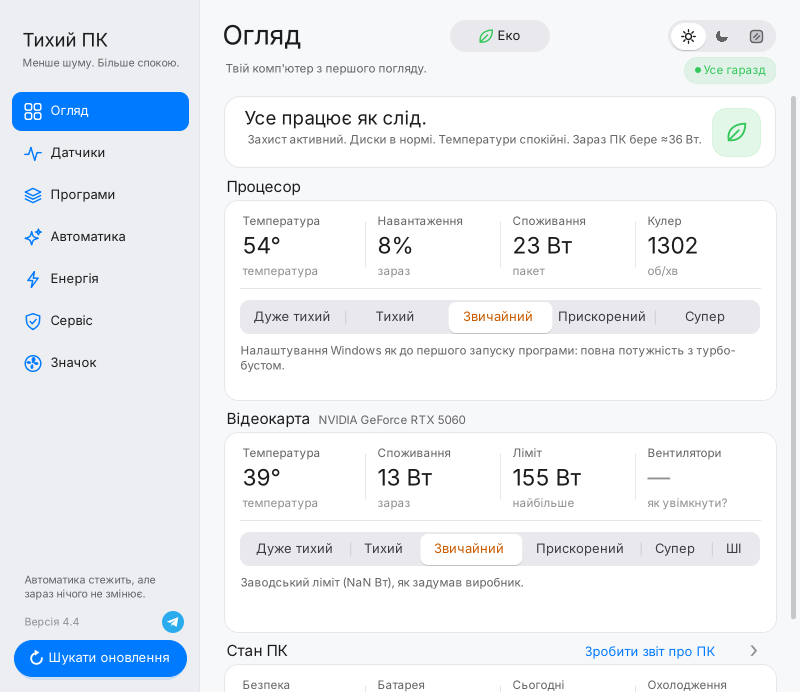
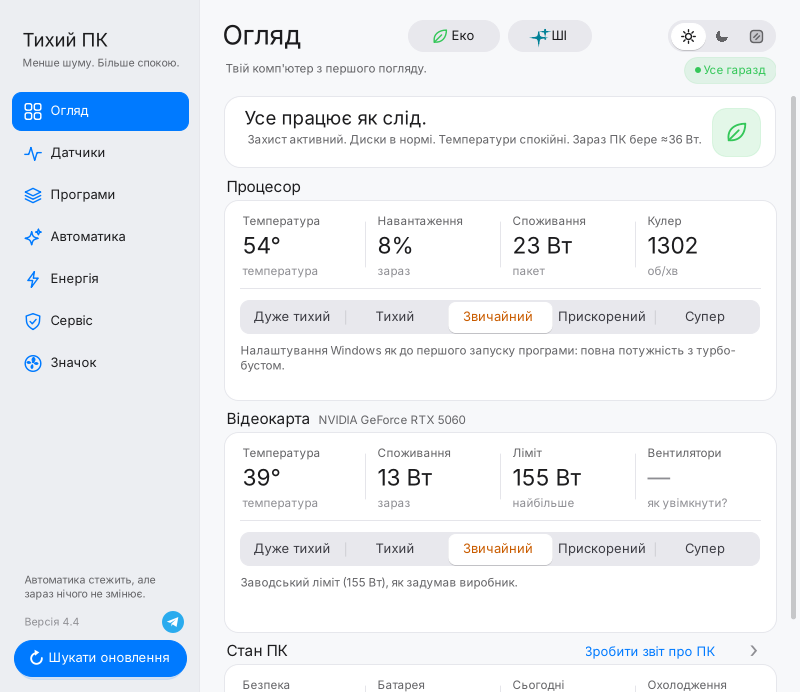
4.4: кнопка «ШІ» поруч з «Еко»
Claude-Session: https://claude.ai/code/session_01SfcRwrkwGvgeaTNGhf47q9

Changed region(s): [[0.4375, 0.789, 0.9375, 0.8497], [0.5312, 0.0303, 0.7188, 0.0607], [0.3125, 0.789, 0.4062, 0.8194]]

diff --git a/src/Shell.cs b/src/Shell.cs
@@ -51,6 +51,15 @@ namespace TyhyiPK
                         }
                         g.DrawLines(pen, new[] { P(x, y, s, 0.33f, 0.5f), P(x, y, s, 0.46f, 0.63f), P(x, y, s, 0.68f, 0.38f) });
                         break;
+                    case "ai":
+                        // Іскри ШІ: велика чотирипроменева зірка і дві маленькі поруч.
+                        using (var b = new SolidBrush(c))
+                        {
+                            Sparkle(g, b, x + s * 0.42f, y + s * 0.58f, s * 0.38f);
+                            Sparkle(g, b, x + s * 0.82f, y + s * 0.2f, s * 0.17f);
+                            g.FillEllipse(b, x + s * 0.8f, y + s * 0.62f, s * 0.12f, s * 0.12f);
+                        }
+                        break;
                     case "leaf":
                         using (var p = new GraphicsPath())
                         {
@@ -183,6 +192,20 @@ namespace TyhyiPK
                         g.DrawLine(pen, P(x, y, s, 0.5f, 0.74f), P(x, y, s, 0.5f, 0.75f));
                         break;
                 }
+            }
+        }
+
+        // Чотирипроменева «іскра» з увігнутими боками.
+        static void Sparkle(Graphics g, Brush b, float cx, float cy, float r)
+        {
+            float k = r * 0.12f;
+            using (var p = new GraphicsPath())
+            {
+                p.AddBezier(cx, cy - r, cx + k, cy - k, cx + k, cy - k, cx + r, cy);
+                p.AddBezier(cx + r, cy, cx + k, cy + k, cx + k, cy + k, cx, cy + r);
+                p.AddBezier(cx, cy + r, cx - k, cy + k, cx - k, cy + k, cx - r, cy);
+                p.AddBezier(cx - r, cy, cx - k, cy - k, cx - k, cy - k, cx, cy - r);
+                g.FillPath(b, p);
             }
         }
 
@@ -562,12 +585,18 @@ namespace TyhyiPK
         }
     }
 
-    // Кнопка «Еко» над сторінкою: листочок і напис; увімкнена — зелена.
-    class EcoButton : UiControl
+    // Кнопка над сторінкою («Еко», «ШІ»): значок і напис; увімкнена — свого кольору.
+    class HeadButton : UiControl
     {
         bool on, hover;
         readonly ToolTip tip = new ToolTip();
-        public EcoButton() { OnBg = true; Cursor = Cursors.Hand; tip.SetToolTip(this, "Еко — мінімальне споживання, коли вимкнули світло"); }
+        readonly string text, icon, tipOff, tipOn;
+        readonly Func<Color> color;
+        public HeadButton(string text, string icon, Func<Color> color, string tipOff, string tipOn)
+        {
+            this.text = text; this.icon = icon; this.color = color; this.tipOff = tipOff; this.tipOn = tipOn;
+            OnBg = true; Cursor = Cursors.Hand; tip.SetToolTip(this, tipOff);
+        }
 
         public bool On
         {
@@ -576,7 +605,7 @@ namespace TyhyiPK
             {
                 if (on == value) return;
                 on = value;
-                tip.SetToolTip(this, on ? "Еко увімкнено — натисни, щоб вимкнути" : "Еко — мінімальне споживання, коли вимкнули світло");
+                tip.SetToolTip(this, on ? tipOn : tipOff);
                 Invalidate();
             }
         }
@@ -585,16 +614,17 @@ namespace TyhyiPK
         {
             var g = Prep(e);
             var r = new RectangleF(0, 0, Width - 1, Height - 1);
-            Color back = on ? Ui.Green : hover ? Ui.FillHover : Ui.Fill;
-            if (on && Ui.Glass) back = Color.FromArgb(190, Ui.Green);
+            Color accent = color();
+            Color back = on ? accent : hover ? Ui.FillHover : Ui.Fill;
+            if (on && Ui.Glass) back = Color.FromArgb(190, accent);
             Ui.FillRound(g, r, r.Height / 2f, back);
             Color fore = on ? Color.White : Ui.Ink;
             float s = Ui.S(16);
-            var size = TextRenderer.MeasureText(g, "Еко", Ui.BodySemi, Size.Empty, TextFormatFlags.NoPadding);
+            var size = TextRenderer.MeasureText(g, text, Ui.BodySemi, Size.Empty, TextFormatFlags.NoPadding);
             float total = s + Ui.S(6) + size.Width;
             float x = (Width - total) / 2f;
-            Icons.Draw(g, "leaf", new RectangleF(x, (Height - s) / 2f, s, s), on ? Color.White : Ui.Green);
-            Ui.Text(g, "Еко", Ui.BodySemi, new Rectangle((int)(x + s + Ui.S(6)), 0, size.Width + Ui.S(4), Height), fore, Ui.Left);
+            Icons.Draw(g, icon, new RectangleF(x, (Height - s) / 2f, s, s), on ? Color.White : accent);
+            Ui.Text(g, text, Ui.BodySemi, new Rectangle((int)(x + s + Ui.S(6)), 0, size.Width + Ui.S(4), Height), fore, Ui.Left);
         }
 
         protected override void OnMouseEnter(EventArgs e) { hover = true; Invalidate(); base.OnMouseEnter(e); }

diff --git a/src/MainForm.Parts.cs b/src/MainForm.Parts.cs
@@ -358,7 +358,9 @@ namespace TyhyiPK
             if (WantEco(out ecoWhy)) { kind = "eco"; return ecoWhy; }
             if (!tgGame.Checked) game = null;
             if (game != null) { kind = "game"; return game; }
-            if (runningAi != null && tgAi.Checked) { kind = "ai"; return runningAi; }
+            if (runningAi == null) aiDismissed = false;
+            if (AiManual) { kind = "ai"; return "вручну"; }
+            if (runningAi != null && tgAi.Checked && !aiDismissed) { kind = "ai"; return runningAi; }
             if (hasBattery && tgBattery.Checked && OnBattery()) { kind = "battery"; return null; }
             if (tgNight.Checked && IsNight(DateTime.Now)) { kind = "night"; return null; }
             kind = null;
@@ -400,7 +402,7 @@ namespace TyhyiPK
             {
                 if (r.Suppressed != null && kind != r.Suppressed) r.Suppressed = null;
                 if (!r.Available) continue;
-                bool auto = kind != null && kind != r.Suppressed && (target == "eco" || Array.IndexOf(r.Keys, target) >= 0);
+                bool auto = kind != null && kind != r.Suppressed && (target == "eco" || (target == "ai" && r == gpu) || Array.IndexOf(r.Keys, target) >= 0);
                 if (auto) autoActive = true;
                 string want = auto ? target : r.Manual;
                 r.WantRaw = want;
@@ -427,7 +429,8 @@ namespace TyhyiPK
             else if (kind == "eco")
                 status = EcoStatus(autoActive, game);
             else if (kind == "ai")
-                status = autoActive ? "Працює ШІ-модель (" + game + ") — відеокарта в режимі «ШІ», вентилятори крутяться примусово."
+                status = game == "вручну" ? (autoActive ? "Увімкнено «ШІ» — відеокарта на 90%, вентилятори крутяться примусово." : "«ШІ» увімкнено, але режим карти вибрано вручну.")
+                    : autoActive ? "Працює ШІ-модель (" + game + ") — відеокарта в режимі «ШІ», вентилятори крутяться примусово."
                     : "Працює ШІ-модель (" + game + "), але режим карти вибрано вручну — автоматика чекає, поки модель вивантажиться.";
             else if (kind == "battery")
                 status = autoActive ? "Працює від батареї — увімкнено «" + Modes.Title(target) + "»."
@@ -440,6 +443,7 @@ namespace TyhyiPK
                     ? "Автоматика стежить, але зараз нічого не змінює." : "Автоматика вимкнена.";
             lblStatus.Text = status;
             SyncEco(kind == "eco");
+            if (aiBtn != null) aiBtn.On = gpu.Current == "ai" || gpu.WantRaw == "ai";
             if (heroRules != null)
             {
                 bool anyOn = tgGame.Checked || tgAi.Checked || tgNight.Checked || tgBattery.Checked || tgHeat.Checked;

diff --git a/src/MainForm.Eco.cs b/src/MainForm.Eco.cs
@@ -11,7 +11,7 @@ namespace TyhyiPK
 {
     partial class MainForm
     {
-        EcoButton ecoBtn;
+        HeadButton ecoBtn, aiBtn;
         Toggle tgEco;
         volatile bool ecoActive;          // «Еко» зараз діє (вручну або через автоматику)
         bool ecoExtrasOn;
@@ -23,11 +23,32 @@ namespace TyhyiPK
 
         void BuildEcoButton()
         {
-            ecoBtn = new EcoButton();
-            ecoBtn.Bounds = Ui.R(SideW + 250, 20, 100, 32);
+            ecoBtn = new HeadButton("Еко", "leaf", () => Ui.Green,
+                "Еко — мінімальне споживання, коли вимкнули світло", "Еко увімкнено — натисни, щоб вимкнути");
+            ecoBtn.Bounds = Ui.R(SideW + 200, 20, 92, 32);
             ecoBtn.Click += (s, e) => ToggleEco();
             Controls.Add(ecoBtn);
             ecoBtn.BringToFront();
+            aiBtn = new HeadButton("ШІ", "ai", () => Modes.Get("ai").Color,
+                "ШІ — для локальних моделей: відеокарта 90% і примусові вентилятори", "ШІ увімкнено — натисни, щоб вимкнути");
+            aiBtn.Bounds = Ui.R(SideW + 300, 20, 84, 32);
+            aiBtn.Click += (s, e) => ToggleAi();
+            Controls.Add(aiBtn);
+            aiBtn.BringToFront();
+        }
+
+        bool AiManual { get { return Settings.GetBool("AiOn", false); } }
+        bool aiDismissed;
+
+        // «ШІ» вручну: відеокарта в режимі «ШІ». Вимикає «Еко» — разом вони не мають сенсу.
+        void ToggleAi()
+        {
+            bool on = !(gpu.Current == "ai" || gpu.WantRaw == "ai");
+            Settings.SetBool("AiOn", on);
+            aiDismissed = !on && runningAi != null;   // вимкнув, поки працює модель — не вмикати знову до наступного запуску
+            if (on) { Settings.SetBool("Eco", false); ecoDismissed = true; }
+            foreach (var r in rows) if (r.Suppressed == "ai") r.Suppressed = null;
+            EvaluateAuto();
         }
 
         void ToggleEco()
@@ -35,6 +56,7 @@ namespace TyhyiPK
             // Якщо «Еко» увімкнула автоматика (зникло світло), кнопка вимикає його до повернення живлення.
             bool on = !ecoActive;
             Settings.SetBool("Eco", on);
+            if (on) Settings.SetBool("AiOn", false);
             if (!on && ecoAuto) ecoDismissed = true;
             if (on) ecoDismissed = false;
             foreach (var r in rows) if (r.Suppressed == "eco") r.Suppressed = null;

diff --git a/src/MainForm.Layout.cs b/src/MainForm.Layout.cs
@@ -170,11 +170,15 @@ namespace TyhyiPK
             {
                 // «Еко» — посередині над сторінкою, але не налазить на заголовок і перемикач теми.
                 int titleRight = lblTitle.Left + TextRenderer.MeasureText(lblTitle.Text ?? "", lblTitle.Font).Width + Ui.S(12);
-                int x = (left + right) / 2 - ecoBtn.Width / 2;
+                // «Еко» і «ШІ» поруч, групою посередині.
+                int gap = Ui.S(8), w = ecoBtn.Width + gap + aiBtn.Width;
+                int x = (left + right) / 2 - w / 2;
                 x = Math.Max(x, titleRight);
-                x = Math.Min(x, themeSeg.Left - Ui.S(12) - ecoBtn.Width);
+                x = Math.Min(x, themeSeg.Left - Ui.S(12) - w);
                 ecoBtn.Left = x;
                 ecoBtn.Top = themeSeg.Top;
+                aiBtn.Left = x + ecoBtn.Width + gap;
+                aiBtn.Top = themeSeg.Top;
                 lblTitle.Width = Math.Max(Ui.S(60), Math.Min(lblTitle.Width, ecoBtn.Left - Ui.S(4) - lblTitle.Left));
             }
         }

diff --git a/src/MainForm.cs b/src/MainForm.cs
@@ -173,7 +173,7 @@ namespace TyhyiPK
             BuildRow(cpu, 208);
 
             gpu.Id = "gpu";
-            gpu.Keys = Modes.Keys.Where(k => k != "eco").ToArray();
+            gpu.Keys = Modes.Keys.Where(k => k != "eco" && k != "ai").ToArray();
             gpu.Title = "Відеокарта";
             gpu.Apply = Gpu.Apply;
             gpu.Desc = Gpu.Desc;
@@ -326,6 +326,13 @@ namespace TyhyiPK
             {
                 var item = new ToolStripMenuItem(m.Title);
                 item.Tag = m.Key;
+                if (m.Key == "ai")
+                {
+                    item.Text = "ШІ — для локальних моделей";
+                    item.Click += (s, e) => ToggleAi();
+                    trayMenu.Items.Add(item);
+                    continue;
+                }
                 if (m.Key == "eco")
                 {
                     item.Text = "Еко — коли немає світла";

diff --git a/CHANGES.md b/CHANGES.md
@@ -4,6 +4,7 @@
 
 ## 4.4
 - Кнопка «Еко» посередині над сторінкою — коли вимкнули світло. Процесор до 50% без прискорення, відеокарта на найменшому ліміті, екран ноутбука тьмяніший і гасне через 3 хвилини, а сама програма рідше опитує датчики. Вимикаєш — усе повертається як було.
+- Поруч з «Еко» — кнопка «ШІ» з іскорками: одним натиском відеокарта на 90% і примусові вентилятори для локальних моделей. З рядка режимів відеокарти «ШІ» прибрано, щоб не дублювати.
 - Автоматика «Коли зникає світло»: щойно ноутбук чи ДБЖ (підключений по USB) переходить на батарею — сам вмикається «Еко», а коли світло повертається — твої режими.
 - На «Огляді» показники тепер окремо для процесора й відеокарти — прямо над їхніми режимами: температура, навантаження, споживання, кулер, ліміт і вентилятори карти.
 - У темі «Скло» вибраний режим зафарбований своїм кольором з білим текстом — читається краще.
